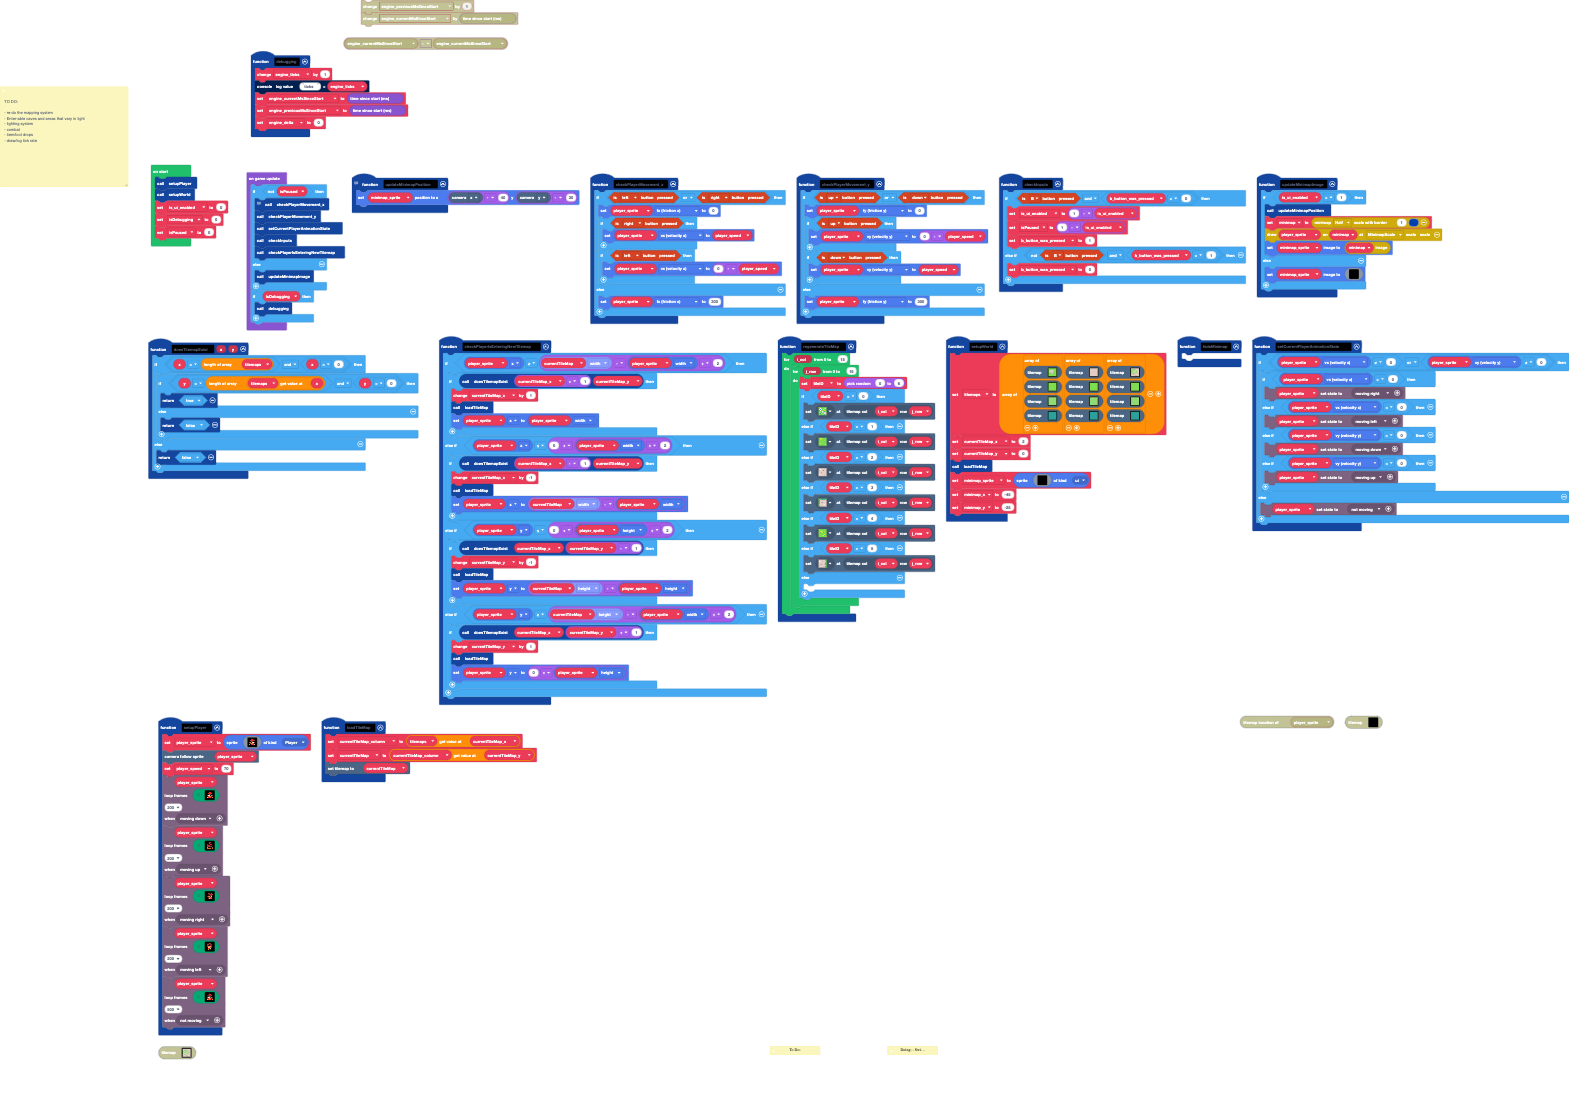
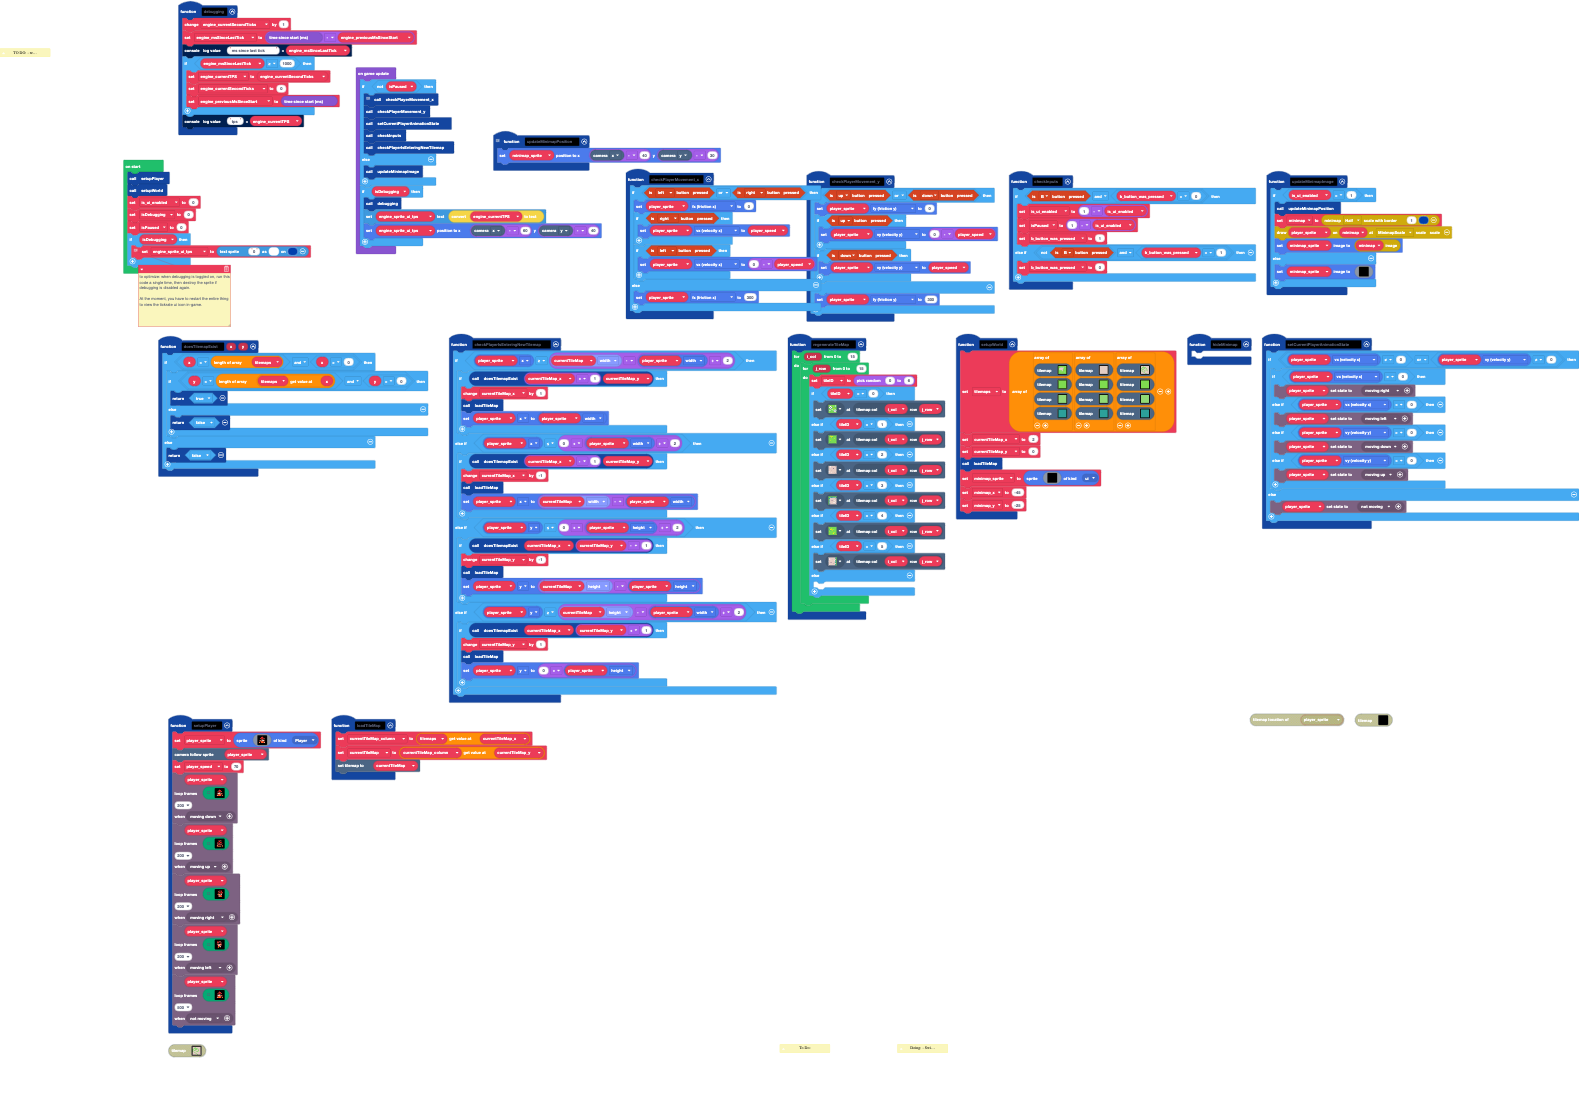
Added tick-rate counting and drawing, tps ui element

Changed region(s): [[0.0, 0.0, 1.0, 0.9513], [0.7808, 0.6444, 0.8744, 0.6751], [0.406, 0.6137, 0.4997, 0.6444]]

diff --git a/main.ts b/main.ts
@@ -63,11 +63,15 @@ function hideMinimap () {
 	
 }
 function debugging () {
-    engine_ticks += 1
-    console.logValue("ticks", engine_ticks)
-    engine_currentMsSinceStart = game.runtime()
-    engine_previousMsSinceStart = game.runtime()
-    engine_delta = 0
+    engine_currentSecondTicks += 1
+    engine_msSinceLastTick = game.runtime() - engine_previousMsSinceStart
+    console.logValue("ms since last tick", engine_msSinceLastTick)
+    if (engine_msSinceLastTick >= 1000) {
+        engine_currentTPS = engine_currentSecondTicks
+        engine_currentSecondTicks = 0
+        engine_previousMsSinceStart = game.runtime()
+    }
+    console.logValue("tps", engine_currentTPS)
 }
 function checkPlayerMovement_x () {
     if (controller.left.isPressed() || controller.right.isPressed()) {
@@ -288,13 +292,14 @@ let currentTileMap_y = 0
 let currentTileMap_x = 0
 let tileID = 0
 let player_speed = 0
-let engine_delta = 0
+let engine_currentTPS = 0
 let engine_previousMsSinceStart = 0
-let engine_currentMsSinceStart = 0
-let engine_ticks = 0
+let engine_msSinceLastTick = 0
+let engine_currentSecondTicks = 0
 let player_sprite: Sprite = null
 let minimap_sprite: Sprite = null
 let tilemaps: tiles.TileMapData[][] = []
+let engine_sprite_ui_tps: TextSprite = null
 let isPaused = 0
 let is_ui_enabled = 0
 setupPlayer()
@@ -302,6 +307,12 @@ setupWorld()
 is_ui_enabled = 0
 let isDebugging = 0
 isPaused = 0
+if (isDebugging) {
+    // to optimize: when debugging is toggled on, run this code a single time, then destroy the sprite if debugging is disabled again.
+    // 
+    // At the moment, you have to restart the entire thing to view the tickrate ui icon in-game.
+    engine_sprite_ui_tps = textsprite.create("0", 8, 1)
+}
 game.onUpdate(function () {
     if (!(isPaused)) {
         // This currently:
@@ -320,5 +331,7 @@ game.onUpdate(function () {
     }
     if (isDebugging) {
         debugging()
+        engine_sprite_ui_tps.setText(convertToText(engine_currentTPS))
+        engine_sprite_ui_tps.setPosition(scene.cameraProperty(CameraProperty.X) - 60, scene.cameraProperty(CameraProperty.Y) - 40)
     }
 })
